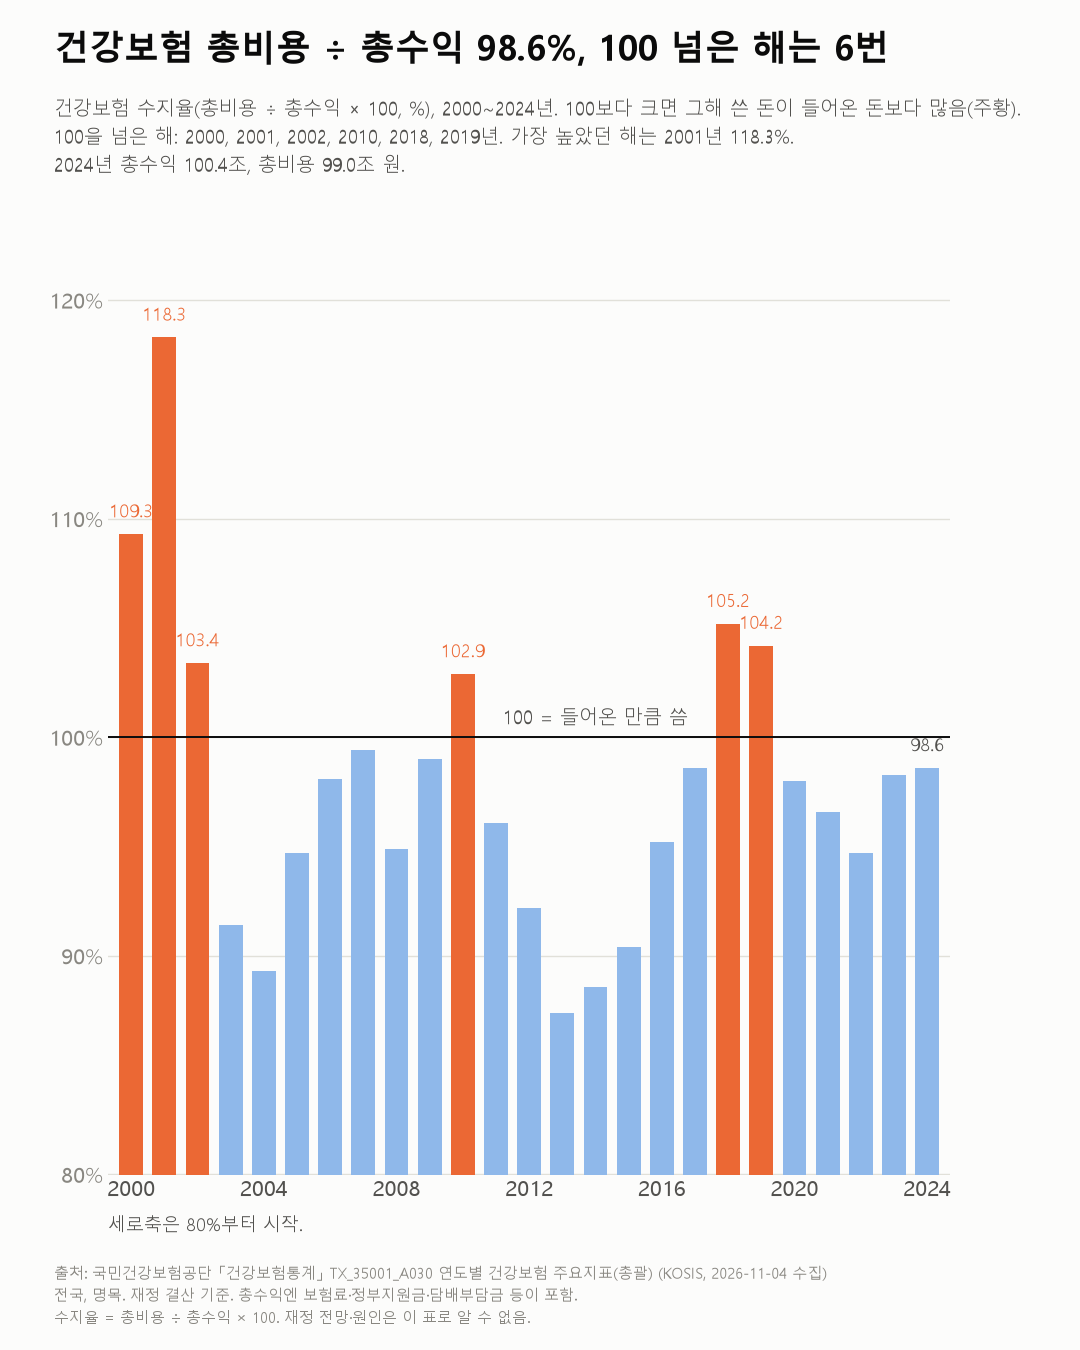
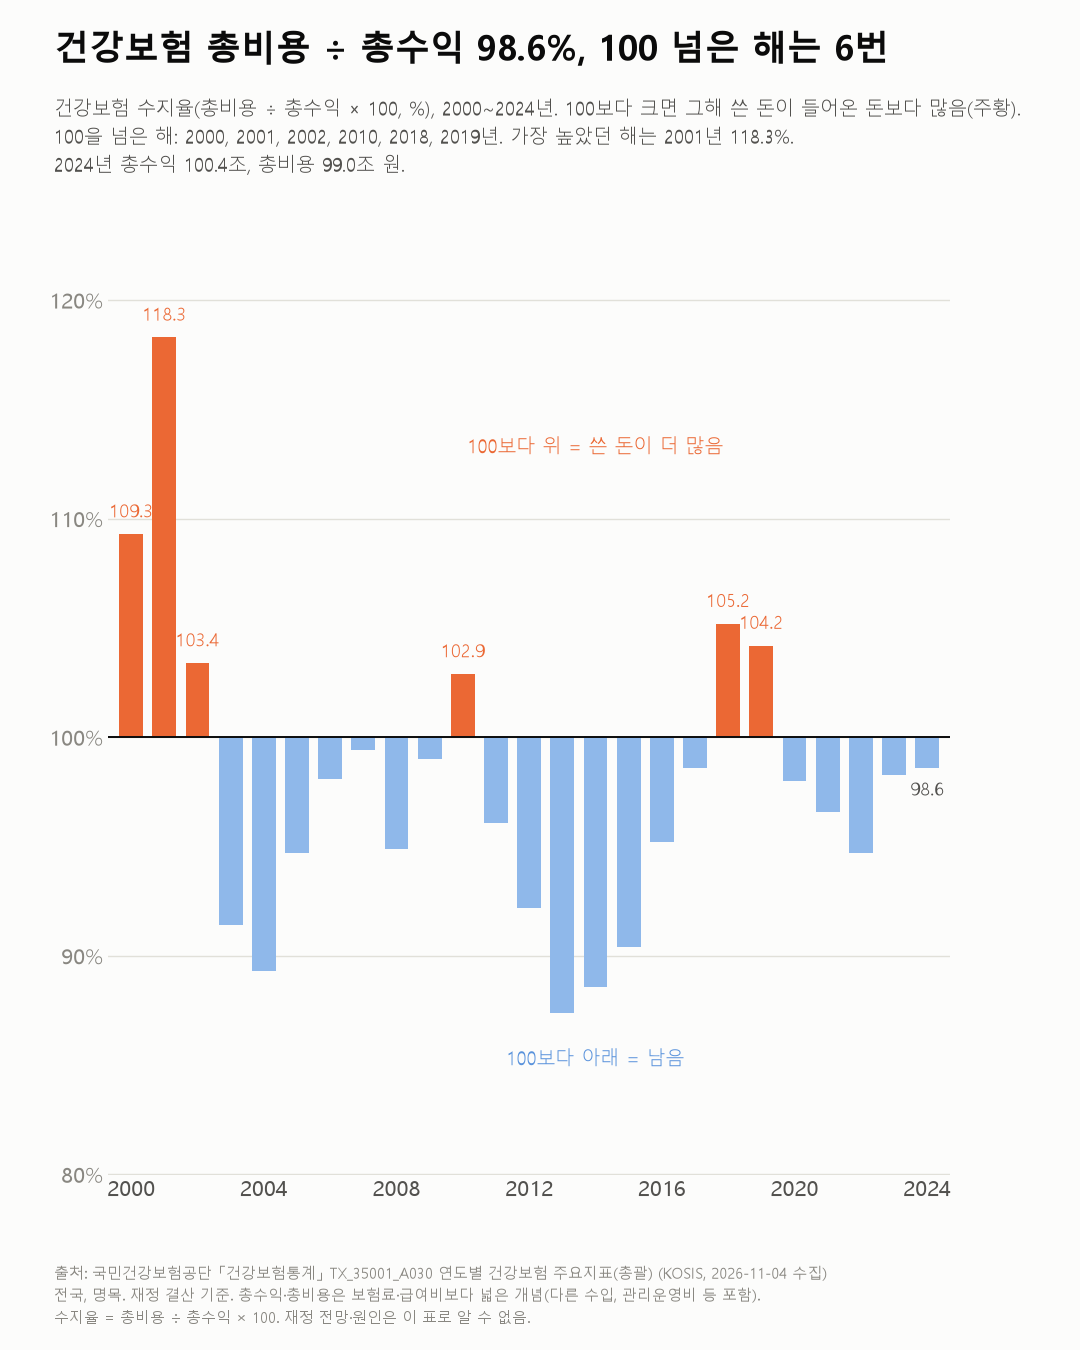
사이트 갱신

diff --git a/2026-11_health-insurance/index.html b/2026-11_health-insurance/index.html
@@ -59,7 +59,7 @@
 <p><strong>1. 2024년 건강보험 1인당 진료비는 226.1만 원으로 2000년(28.1만 원)의 약 8배다(명목).</strong></p>
 <p><strong>2. 1인당 보험료는 18.7만 → 187.3만 원, 1인당 급여비(공단 부담)는 20.2만 → 187.6만 원.</strong> 2024년엔 둘이 거의 같다.</p>
 <p><strong>3. 총비용 ÷ 총수익(수지율)은 2024년 98.6%로, 들어온 돈보다 조금 덜 썼다.</strong> 2000~2024년 중 100을 넘은 해는 6번(2000·2001·2002·2010·2018·2019년), 가장 높았던 해는 2001년 118.3%.</p>
-<p><strong>4. 2024년 총수익 100.4조, 총비용 99.0조 원.</strong></p>
+<p><strong>4. 2024년 총수익 100.4조, 총비용 99.0조 원.</strong> 총수익·총비용은 보험료·급여비보다 넓은 개념(다른 수입, 관리운영비 등 포함)이라, 1인당 급여비가 보험료보다 조금 많아도 수지율은 100보다 낮을 수 있다.</p>
 <p><a class="chart-link" href="chart_health_insurance_balance.png" title="원본 크기로 보기"><img alt="수지율" src="chart_health_insurance_balance.png" /></a></p>
 </section><section class="sec sec-limits"><h2>한계</h2><p class="sec-note">이 데이터로 말할 수 없는 것</p>
 <ul>
